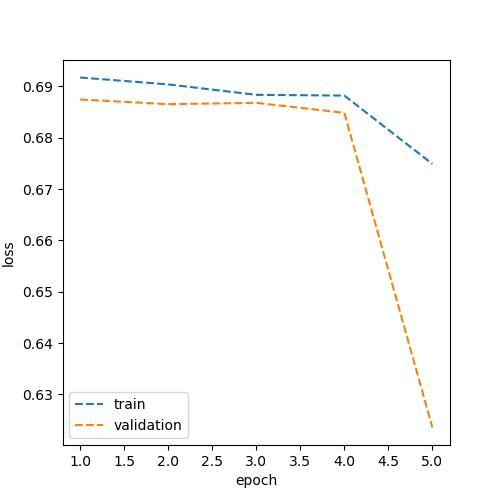
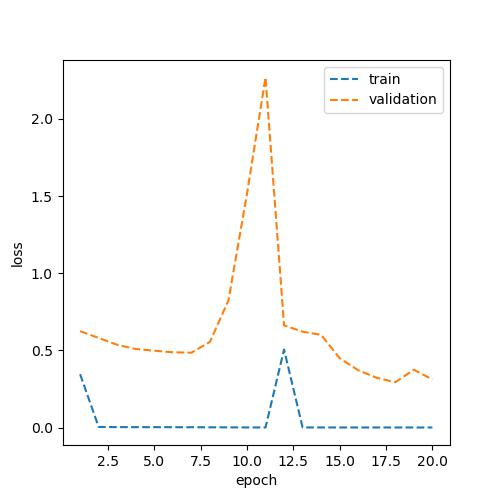
eliminando el conjunto de las fotos de impresiones

diff --git a/modules/get_data.py b/modules/get_data.py
@@ -13,7 +13,6 @@ def run(train):
 
     REAL_PATH="./data/real"#defieniendo path de las imagenes reales
     FAKE1_PATH="./data/fake_1"#definiendo path de las imganes falsas
-    FAKE2_PATH="./data/fake_2"
 
     logging.info("cargando y preparando imagenes reales")
 
@@ -21,11 +20,10 @@ def run(train):
 
     logging.info("cargando y preparando imagenes falsas")
     
-    x_f2,y_f2=get(FAKE1_PATH)
-    x_f1,y_f1=get(FAKE2_PATH)
+    x_f1,y_f1=get(FAKE1_PATH)
 
-    x=x_f1+x_r+x_f2
-    y=y_f1+y_r+y_f2
+    x=x_f1+x_r
+    y=y_f1+y_r
 
     logging.info("seleccionando datos correspondientes")
 

diff --git a/modules/train_model.py b/modules/train_model.py
@@ -54,9 +54,8 @@ def train(model,x_train,y_train,x_val,y_val):
 
     binnacle=model.fit( #entrenamiento del modelo
         x_train,y_train, #datos de entrenamiento con el generador
-        batch_size=64, #tamaño de lotes
+        batch_size=32, #tamaño de lotes
         epochs=20, #definiendo epocas
-        steps_per_epoch=(x_train.shape[0]//64), #defieniendo pasos por epoca
         validation_data=(x_val,y_val)) #iteraciones
 
     model.save("./models/trained_model.h5")
